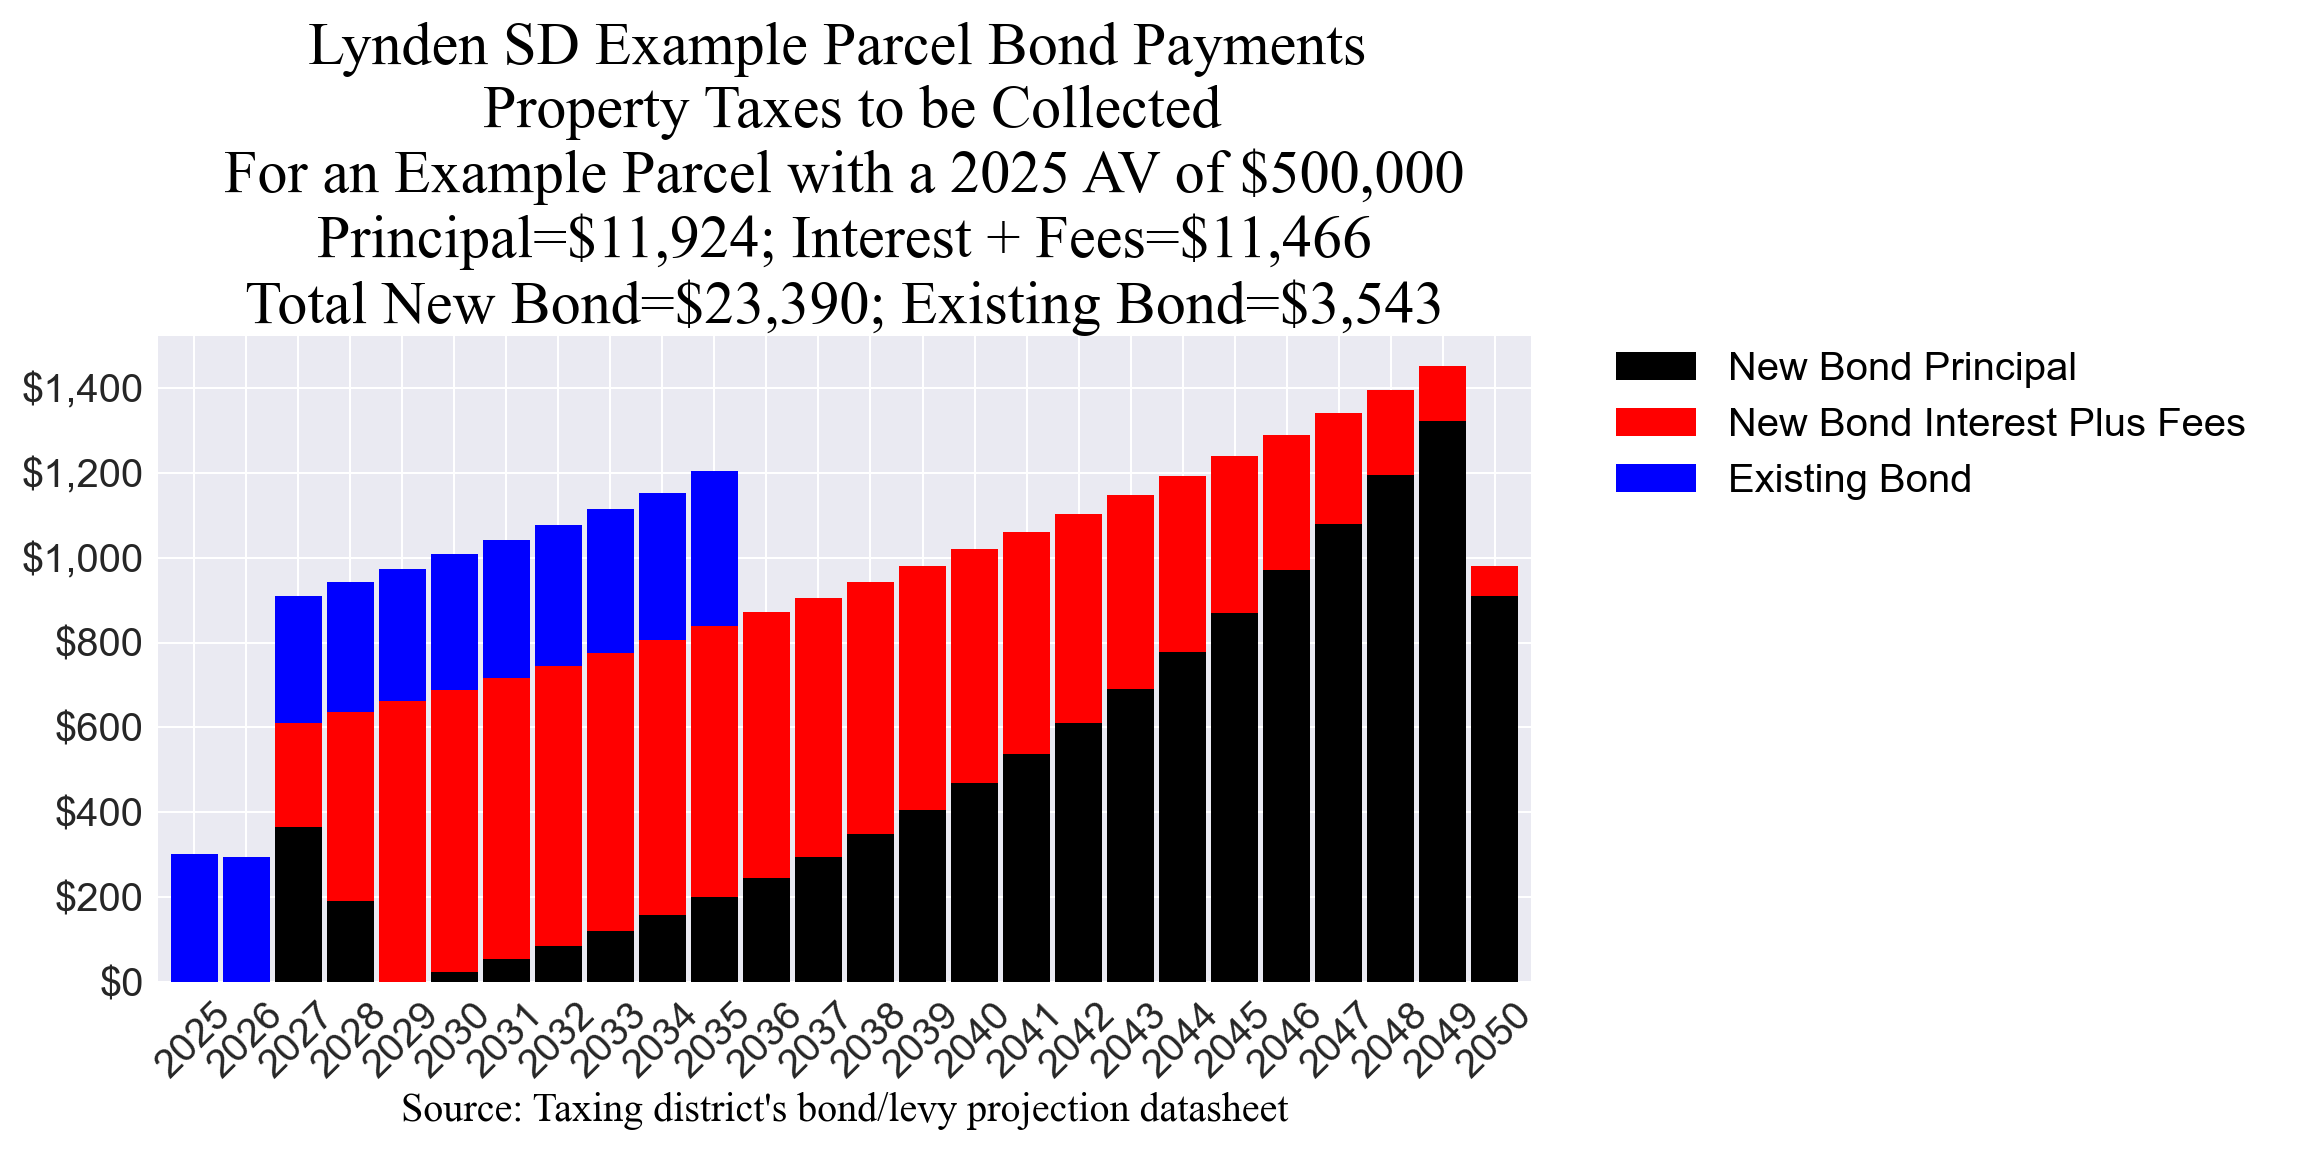
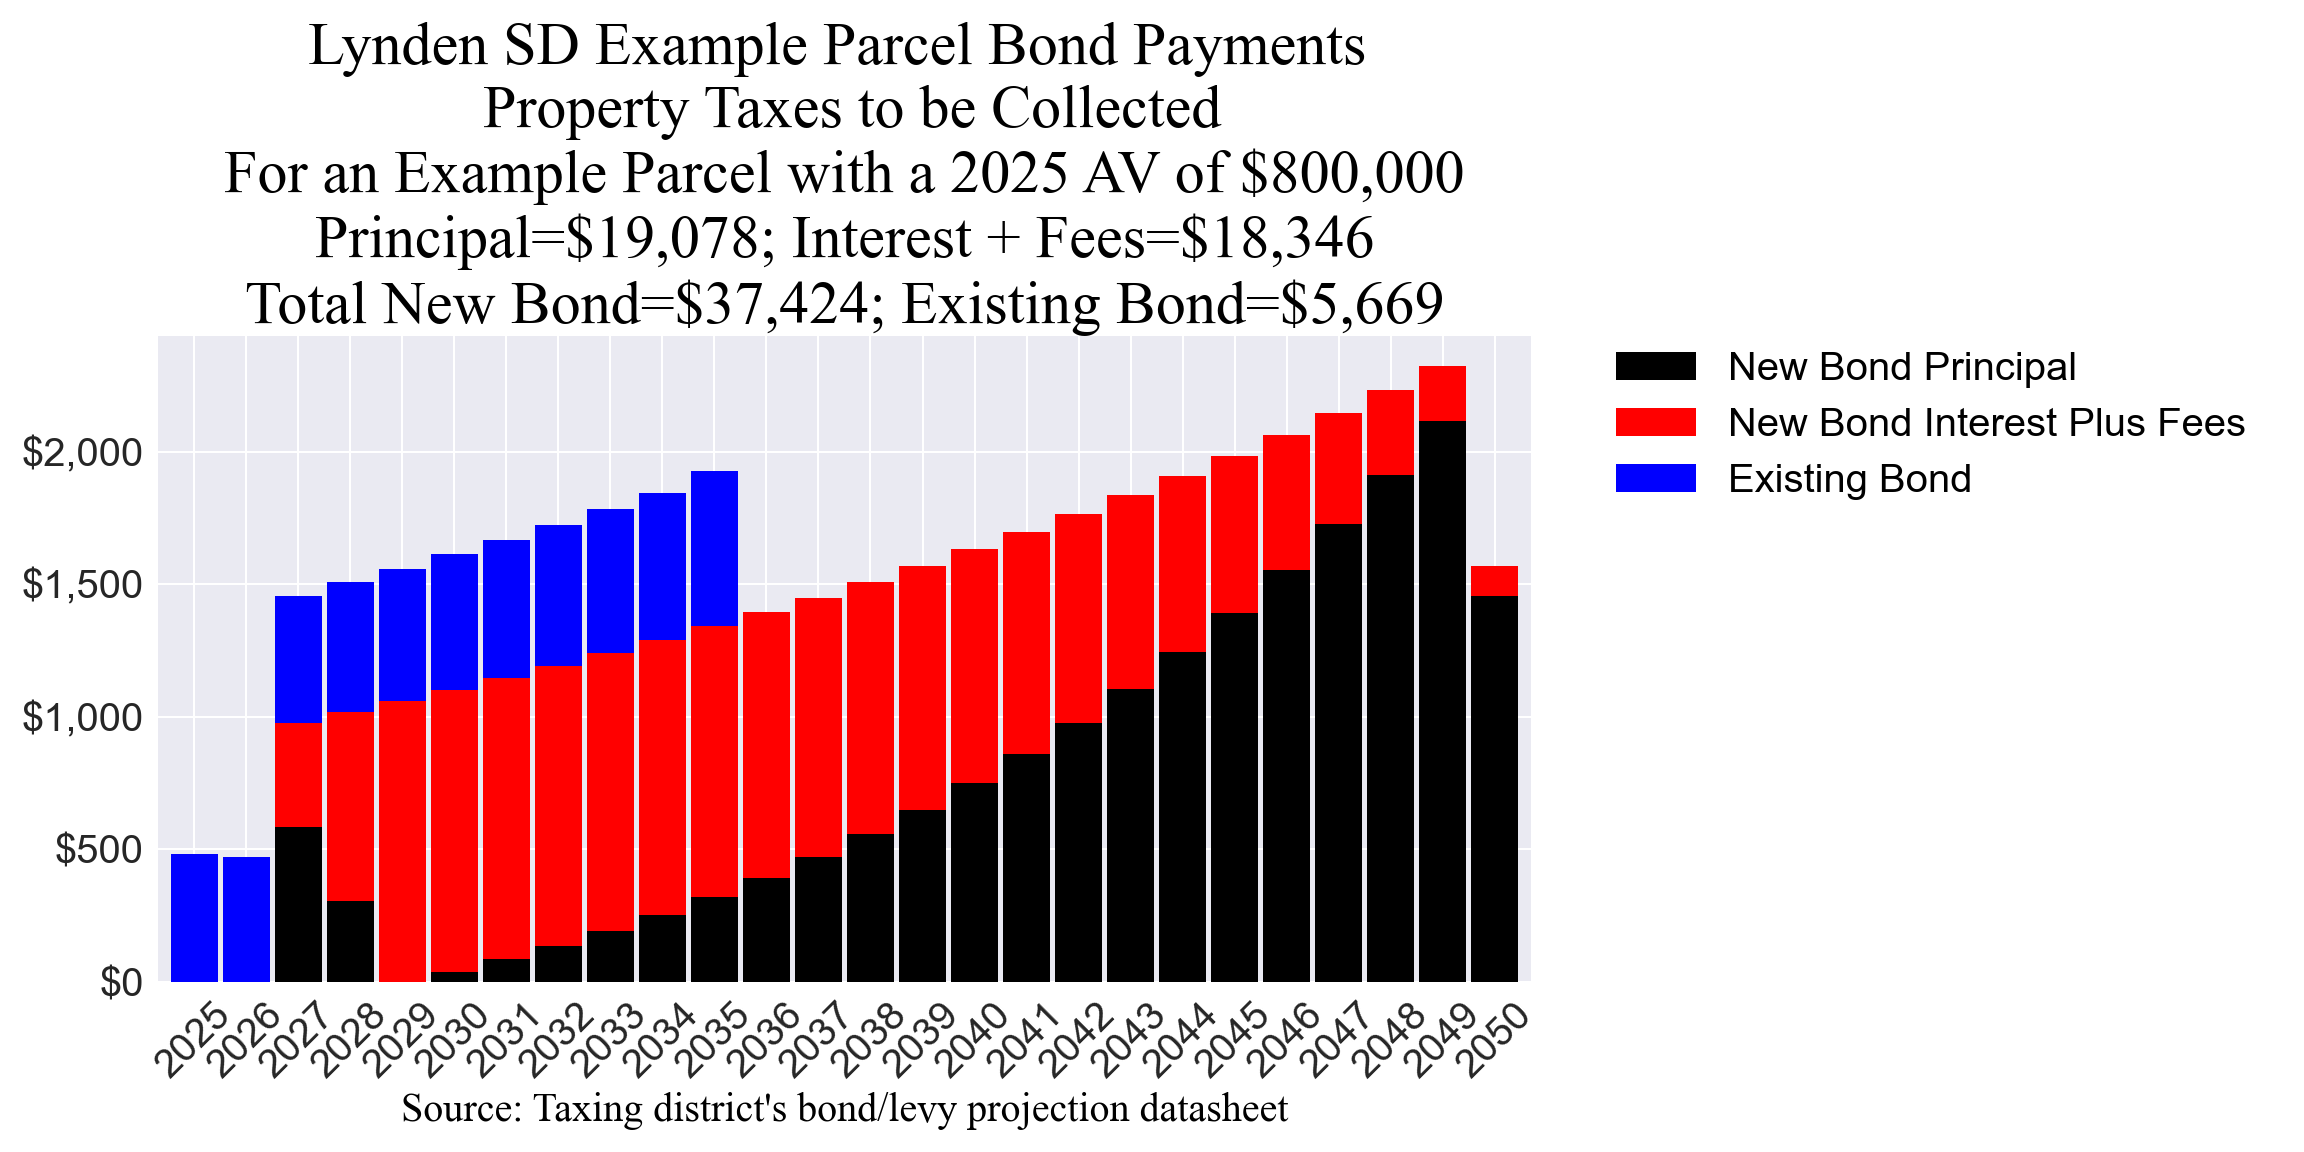
Updated elec 20251104
Updated:
Lynden

diff --git a/_includes/cost_estimates/20251104/LyndenBondTable_20251104.html b/_includes/cost_estimates/20251104/LyndenBondTable_20251104.html
@@ -16,7 +16,7 @@ table, th, td {
 	var dataParcel;
 	
 	totalLevyAV = 5409726000;
-	sampleParcelAV = 500000;
+	sampleParcelAV = 800000;
 	sampleParcelAVMin = 100000;
 	sampleParcelAVMax = 2000000;
 	totalLevyCost = 253064000;

diff --git a/_includes/cost_estimates/20251104/Lynden_20251104_Enhanced.html b/_includes/cost_estimates/20251104/Lynden_20251104_Enhanced.html
@@ -12,7 +12,7 @@
 	var dataParcel;
 	
 	totalBondAV = 5409726000;
-	sampleParcelAV = 500000;
+	sampleParcelAV = 800000;
 	sampleParcelAVMin = 100000;
 	sampleParcelAVMax = 2000000;
 	totalBondPrincipal = 129006279;
